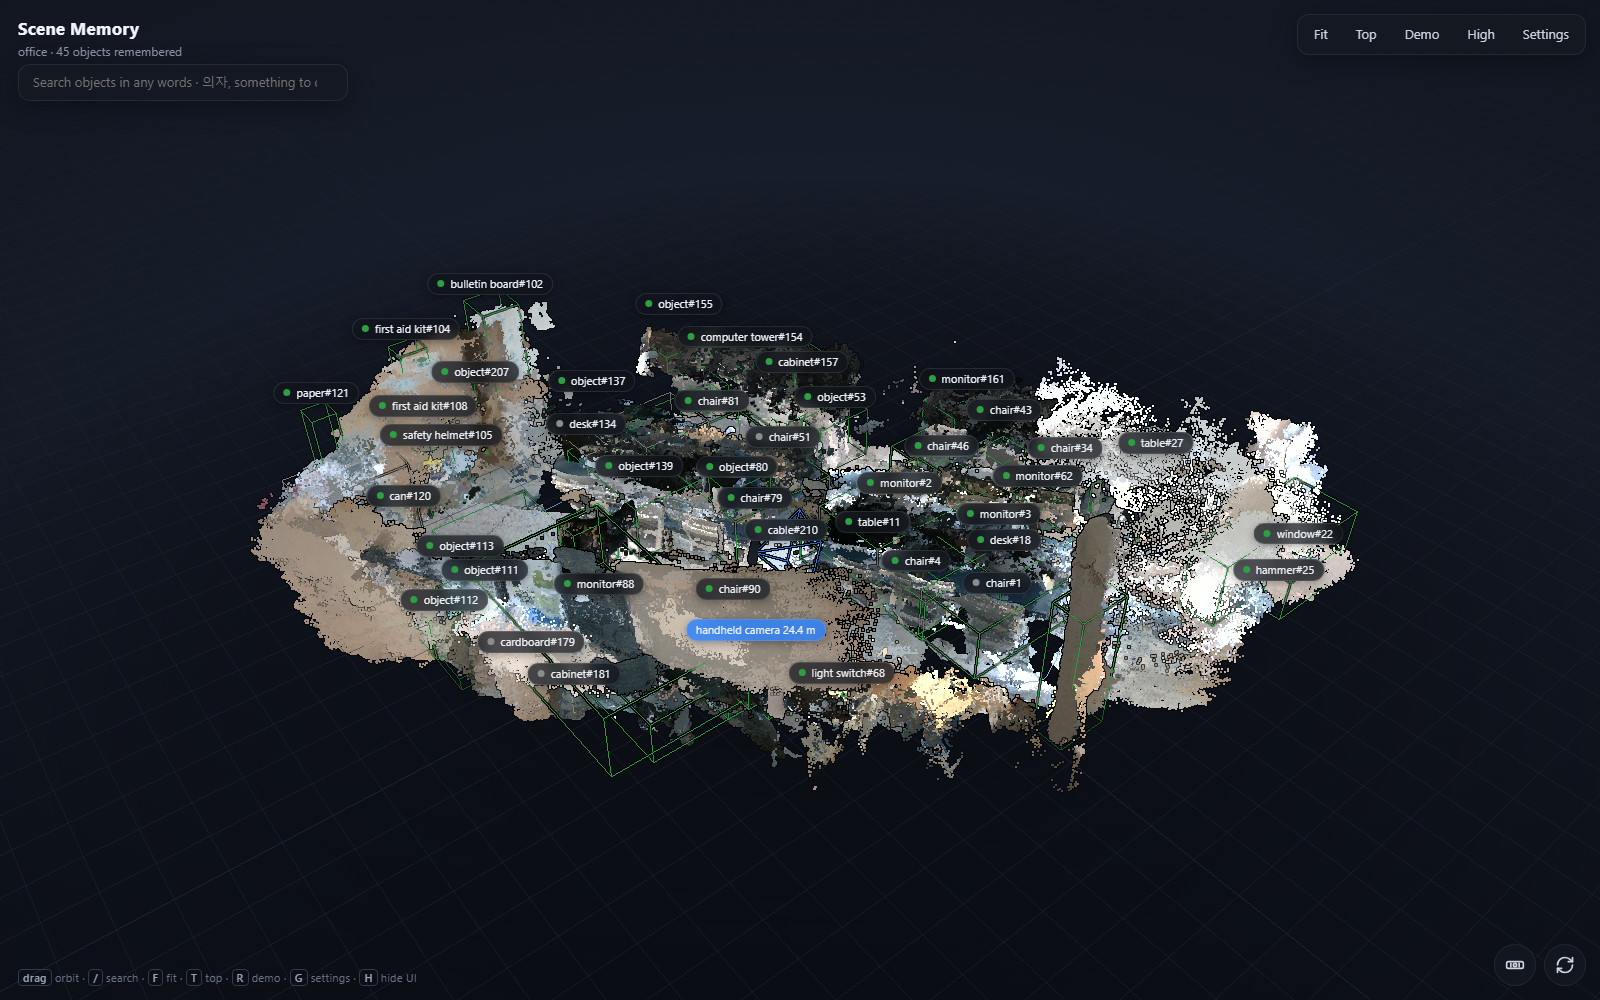
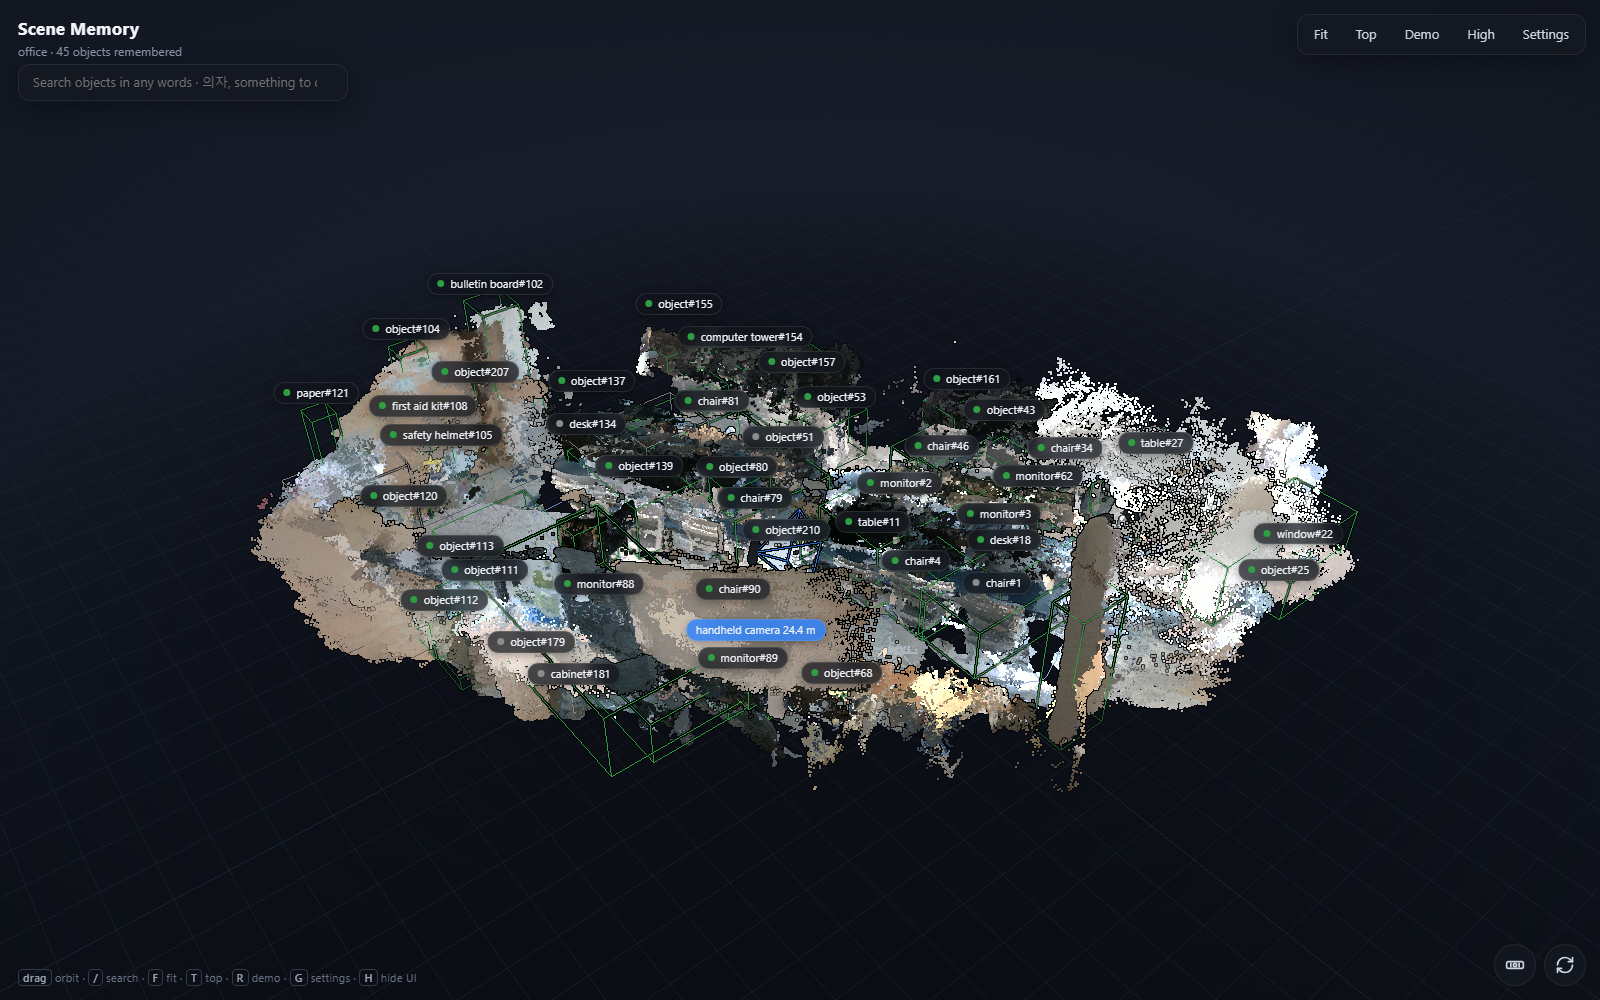
병렬 C(이름표): 기본값 화면 캡처 다시(옛 뷰어가 포트를 잡고 있던 것 정정)

diff --git a/docs/pose_experiments.md b/docs/pose_experiments.md
@@ -304,3 +304,5 @@
 - **낱말 표 손질(기각)**: chair 에 'the back of an office chair · a mesh chair backrest · the legs of a chair', bulletin board 에 'a pegboard with notices', floor 에 'a floor mat' 문장을 더해 다시 인코딩
   (`ondevice view --search-model <siglip2 폴더> --encode-vocab`) — 대표 사진 53 개 결과가 한 개도 안 바뀜(65 %). 의자 뒷면 → monitor 는 사진 벡터 쪽 문제라 문장으로는 안 움직인다.
   부정 낱말(1 등이면 이름 안 붙임)도 남은 틀림(n ≥ 12 의 10 개)이 대부분 '다른 진짜 물체 이름'(monitor · computer tower · keyboard · box)이라 걸러낼 낱말이 없다.
+- 정정: 앞서 올린 parc_names_default.png 는 포트 8096 에 옛 뷰어(parc_out18, 거르기 전)가 남아 새 뷰어가 못 떠서 옛 화면을 찍은 것이었다(view.json 은 맞았음: 25 · 68 · 120 = object).
+  옛 뷰어를 끄고 parc_out21 뷰어가 뜬 것(로그 `memory dir /home/rea/parc_out21`)을 확인한 뒤 다시 찍음 — 화면에 object#25 · object#68 · object#120, safety helmet#105 그대로.
